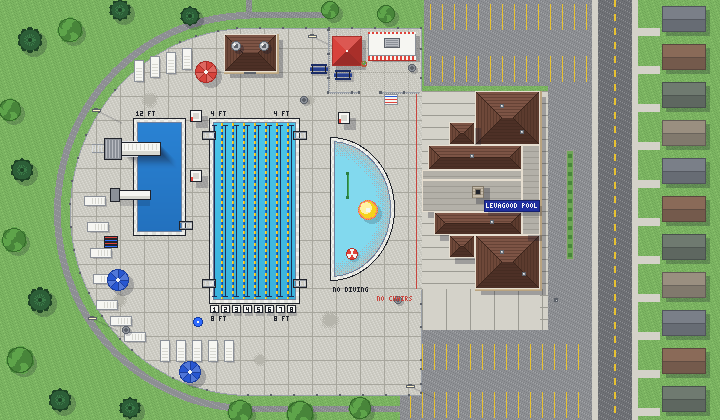
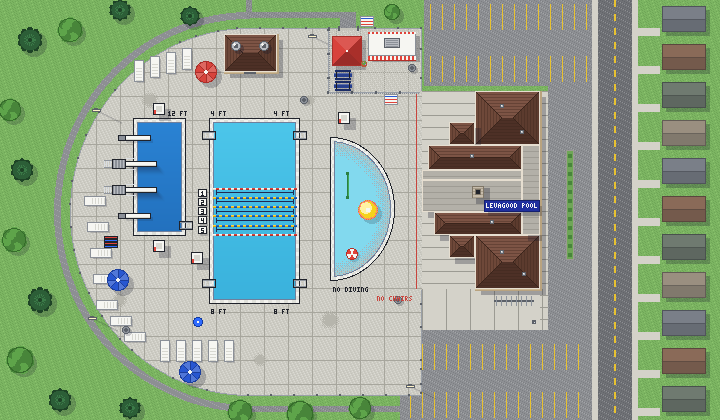
Pool page: park life, concessions from the park, meet lanes, four diving boards

diff --git a/pool.html b/pool.html
@@ -135,11 +135,11 @@
       <canvas id="levac" width="1440" height="840" aria-hidden="true"></canvas>
       <div id="dark" aria-hidden="true"></div>
       <canvas id="lights" width="1440" height="840" aria-hidden="true"></canvas>
-<div class="spot" tabindex="0" role="note" aria-label="DIVING WELL, 12 feet, the high dive and the low board" style="left:266px;top:236px;width:106px;height:236px"><span class="tip"><b>DIVING WELL</b><span>12 feet, the high dive and the low board</span></span></div>
-<div class="spot" tabindex="0" role="note" aria-label="50 METER POOL, eight lanes, the ropes out for laps" style="left:418px;top:236px;width:182px;height:372px"><span class="tip"><b>50 METER POOL</b><span>eight lanes, the ropes out for laps</span></span></div>
+<div class="spot" tabindex="0" role="note" aria-label="DIVING WELL, 12 feet, two 1 meter and two 3 meter boards" style="left:266px;top:236px;width:106px;height:236px"><span class="tip"><b>DIVING WELL</b><span>12 feet, two 1 meter and two 3 meter boards</span></span></div>
+<div class="spot" tabindex="0" role="note" aria-label="50 METER POOL, meets run 25 yards across, five lanes in the middle" style="left:418px;top:236px;width:182px;height:372px"><span class="tip"><b>50 METER POOL</b><span>meets run 25 yards across, five lanes in the middle</span></span></div>
 <div class="spot" tabindex="0" role="note" aria-label="ZERO DEPTH, the mushroom, the arch, and the duck" style="left:660px;top:274px;width:130px;height:288px"><span class="tip"><b>ZERO DEPTH</b><span>the mushroom, the arch, and the duck</span></span></div>
 <button type="button" class="spot link" data-room="pump" style="left:448px;top:68px;width:106px;height:76px" aria-label="PUMP ROOM, leva lives here, come see"><span class="tip down"><b>PUMP ROOM</b><span>leva lives here, come see</span></span></button>
-<div class="spot" tabindex="0" role="note" aria-label="CONCESSION AREA, no outside food, no loitering" style="left:656px;top:60px;width:80px;height:124px"><span class="tip down"><b>CONCESSION AREA</b><span>no outside food, no loitering</span></span></div>
+<div class="spot" tabindex="0" role="note" aria-label="CONCESSION AREA, come in from the park, no food on the deck" style="left:656px;top:60px;width:80px;height:124px"><span class="tip down"><b>CONCESSION AREA</b><span>come in from the park, no food on the deck</span></span></div>
 <button type="button" class="spot link" data-room="nutty" style="left:736px;top:64px;width:96px;height:58px" aria-label="NUTTY DIP, Sandy's Sundaes"><span class="tip down"><b>NUTTY DIP</b><span>Sandy's Sundaes</span></span></button>
 <div class="spot" tabindex="0" role="note" aria-label="GIRLS BATHROOM" style="left:950px;top:182px;width:130px;height:108px"><span class="tip down"><b>GIRLS BATHROOM</b></span></div>
 <div class="spot" tabindex="0" role="note" aria-label="GIRLS GUARD SHACK" style="left:898px;top:244px;width:52px;height:46px"><span class="tip"><b>GIRLS GUARD SHACK</b></span></div>
@@ -244,7 +244,7 @@
   function isNight(){ return park.dataset.time === 'night'; }
   function isDusk(){ return park.dataset.time === 'dusk'; }
 
-  var ATLAS = {"crew_s0":[0,0,11,13],"crew2_s0":[12,0,11,13],"crew3_s0":[24,0,11,13],"crew_s1":[36,0,11,13],"crew2_s1":[48,0,11,13],"crew3_s1":[60,0,11,13],"crew_n0":[72,0,11,13],"crew2_n0":[84,0,11,13],"crew3_n0":[96,0,11,13],"crew_n1":[108,0,11,13],"crew2_n1":[120,0,11,13],"crew3_n1":[132,0,11,13],"crew_e0":[144,0,11,13],"crew2_e0":[156,0,11,13],"crew3_e0":[168,0,11,13],"crew_e1":[180,0,11,13],"crew2_e1":[192,0,11,13],"crew3_e1":[204,0,11,13],"crew_w0":[216,0,11,13],"crew2_w0":[228,0,11,13],"crew3_w0":[240,0,11,13],"crew_w1":[0,14,11,13],"crew2_w1":[12,14,11,13],"crew3_w1":[24,14,11,13],"kid1_e0":[36,14,11,13],"kid1_e1":[48,14,11,13],"kid1_w0":[60,14,11,13],"kid1_w1":[72,14,11,13],"kid1_s0":[84,14,11,13],"kid1_s1":[96,14,11,13],"kid1_n0":[108,14,11,13],"kid1_n1":[120,14,11,13],"kid2_e0":[132,14,11,13],"kid2_e1":[144,14,11,13],"kid2_w0":[156,14,11,13],"kid2_w1":[168,14,11,13],"kid2_s0":[180,14,11,13],"kid2_s1":[192,14,11,13],"kid2_n0":[204,14,11,13],"kid2_n1":[216,14,11,13],"kid3_e0":[228,14,11,13],"kid3_e1":[240,14,11,13],"kid3_w0":[0,28,11,13],"kid3_w1":[12,28,11,13],"kid3_s0":[24,28,11,13],"kid3_s1":[36,28,11,13],"kid3_n0":[48,28,11,13],"kid3_n1":[60,28,11,13],"food":[72,28,6,7],"chair_blue":[79,28,13,9],"chair_white":[93,28,13,9],"chair_web":[107,28,13,9],"chair_red":[121,28,13,9],"f1_seat0":[135,28,11,11],"f1_e0":[147,28,11,13],"f1_seat1":[159,28,11,11],"f1_e1":[171,28,11,13],"f2_seat0":[183,28,11,11],"f2_e0":[195,28,11,13],"f2_seat1":[207,28,11,11],"f2_e1":[219,28,11,13],"f3_seat0":[231,28,11,11],"f3_e0":[243,28,11,13],"f3_seat1":[0,42,11,11],"f3_e1":[12,42,11,13],"f4_seat0":[24,42,11,11],"f4_e0":[36,42,11,13],"f4_seat1":[48,42,11,11],"f4_e1":[60,42,11,13],"f5_seat0":[72,42,11,11],"f5_e0":[84,42,11,13],"f5_seat1":[96,42,11,11],"f5_e1":[108,42,11,13],"f6_seat0":[120,42,11,11],"f6_e0":[132,42,11,13],"f6_seat1":[144,42,11,11],"f6_e1":[156,42,11,13],"band1_w0":[168,42,11,13],"band1_w1":[180,42,11,13],"band2_w0":[192,42,11,13],"band2_w1":[204,42,11,13],"band3_w0":[216,42,11,13],"band3_w1":[228,42,11,13],"guitar":[240,42,8,7],"drums":[0,56,13,11],"note0":[14,56,5,6],"note1":[20,56,7,6],"guard_sit":[28,56,6,6],"guard_s0":[35,56,11,13],"guard_s1":[47,56,11,13],"guard_n0":[59,56,11,13],"guard_n1":[71,56,11,13],"guard_e0":[83,56,11,13],"guard_e1":[95,56,11,13],"guard_w0":[107,56,11,13],"guard_w1":[119,56,11,13],"swim_e0":[131,56,10,6],"swim_w0":[142,56,10,6],"swim_e1":[153,56,10,6],"swim_w1":[164,56,10,6],"swim_s0":[175,56,6,10],"swim_n0":[182,56,6,10],"swim_s1":[189,56,6,10],"swim_n1":[196,56,6,10],"head0":[203,56,8,6],"head1":[212,56,8,6],"cart_h":[221,56,12,8],"cart_v":[234,56,8,11],"duck0":[243,56,10,7],"duck1":[0,70,10,7],"spray0":[11,70,40,40],"spray1":[52,70,40,40],"spray2":[93,70,40,40],"arch0":[134,70,30,12],"arch1":[165,70,30,12],"fan0":[196,70,20,20],"fan1":[217,70,20,20],"flags0":[238,70,6,72],"flags1":[245,70,6,72],"splash0":[0,143,20,20],"splash1":[21,143,20,20],"splash2":[42,143,20,20],"flag0":[63,143,12,8],"flag1":[76,143,12,8],"skim0":[89,143,14,30],"skim1":[104,143,14,30],"mop":[119,143,9,11],"bucket":[129,143,7,6],"wrench0":[137,143,10,5],"wrench1":[148,143,10,5]};
+  var ATLAS = {"crew_s0":[0,0,11,13],"crew2_s0":[12,0,11,13],"crew3_s0":[24,0,11,13],"crew_s1":[36,0,11,13],"crew2_s1":[48,0,11,13],"crew3_s1":[60,0,11,13],"crew_n0":[72,0,11,13],"crew2_n0":[84,0,11,13],"crew3_n0":[96,0,11,13],"crew_n1":[108,0,11,13],"crew2_n1":[120,0,11,13],"crew3_n1":[132,0,11,13],"crew_e0":[144,0,11,13],"crew2_e0":[156,0,11,13],"crew3_e0":[168,0,11,13],"crew_e1":[180,0,11,13],"crew2_e1":[192,0,11,13],"crew3_e1":[204,0,11,13],"crew_w0":[216,0,11,13],"crew2_w0":[228,0,11,13],"crew3_w0":[240,0,11,13],"crew_w1":[0,14,11,13],"crew2_w1":[12,14,11,13],"crew3_w1":[24,14,11,13],"kid1_e0":[36,14,11,13],"kid1_e1":[48,14,11,13],"kid1_w0":[60,14,11,13],"kid1_w1":[72,14,11,13],"kid1_s0":[84,14,11,13],"kid1_s1":[96,14,11,13],"kid1_n0":[108,14,11,13],"kid1_n1":[120,14,11,13],"kid2_e0":[132,14,11,13],"kid2_e1":[144,14,11,13],"kid2_w0":[156,14,11,13],"kid2_w1":[168,14,11,13],"kid2_s0":[180,14,11,13],"kid2_s1":[192,14,11,13],"kid2_n0":[204,14,11,13],"kid2_n1":[216,14,11,13],"kid3_e0":[228,14,11,13],"kid3_e1":[240,14,11,13],"kid3_w0":[0,28,11,13],"kid3_w1":[12,28,11,13],"kid3_s0":[24,28,11,13],"kid3_s1":[36,28,11,13],"kid3_n0":[48,28,11,13],"kid3_n1":[60,28,11,13],"food":[72,28,6,7],"chair_blue":[79,28,13,9],"chair_white":[93,28,13,9],"chair_web":[107,28,13,9],"chair_red":[121,28,13,9],"f1_seat0":[135,28,11,11],"f1_n0":[147,28,11,13],"f1_e0":[159,28,11,13],"f1_s0":[171,28,11,13],"f1_w0":[183,28,11,13],"f1_seat1":[195,28,11,11],"f1_n1":[207,28,11,13],"f1_e1":[219,28,11,13],"f1_s1":[231,28,11,13],"f1_w1":[243,28,11,13],"f2_seat0":[0,42,11,11],"f2_n0":[12,42,11,13],"f2_e0":[24,42,11,13],"f2_s0":[36,42,11,13],"f2_w0":[48,42,11,13],"f2_seat1":[60,42,11,11],"f2_n1":[72,42,11,13],"f2_e1":[84,42,11,13],"f2_s1":[96,42,11,13],"f2_w1":[108,42,11,13],"f3_seat0":[120,42,11,11],"f3_n0":[132,42,11,13],"f3_e0":[144,42,11,13],"f3_s0":[156,42,11,13],"f3_w0":[168,42,11,13],"f3_seat1":[180,42,11,11],"f3_n1":[192,42,11,13],"f3_e1":[204,42,11,13],"f3_s1":[216,42,11,13],"f3_w1":[228,42,11,13],"f4_seat0":[240,42,11,11],"f4_n0":[0,56,11,13],"f4_e0":[12,56,11,13],"f4_s0":[24,56,11,13],"f4_w0":[36,56,11,13],"f4_seat1":[48,56,11,11],"f4_n1":[60,56,11,13],"f4_e1":[72,56,11,13],"f4_s1":[84,56,11,13],"f4_w1":[96,56,11,13],"f5_seat0":[108,56,11,11],"f5_n0":[120,56,11,13],"f5_e0":[132,56,11,13],"f5_s0":[144,56,11,13],"f5_w0":[156,56,11,13],"f5_seat1":[168,56,11,11],"f5_n1":[180,56,11,13],"f5_e1":[192,56,11,13],"f5_s1":[204,56,11,13],"f5_w1":[216,56,11,13],"f6_seat0":[228,56,11,11],"f6_n0":[240,56,11,13],"f6_e0":[0,70,11,13],"f6_s0":[12,70,11,13],"f6_w0":[24,70,11,13],"f6_seat1":[36,70,11,11],"f6_n1":[48,70,11,13],"f6_e1":[60,70,11,13],"f6_s1":[72,70,11,13],"f6_w1":[84,70,11,13],"band1_w0":[96,70,11,13],"band1_w1":[108,70,11,13],"band2_w0":[120,70,11,13],"band2_w1":[132,70,11,13],"band3_w0":[144,70,11,13],"band3_w1":[156,70,11,13],"guitar":[168,70,8,7],"drums":[177,70,13,11],"note0":[191,70,5,6],"note1":[197,70,7,6],"guard_sit":[205,70,6,6],"guard_s0":[212,70,11,13],"guard_s1":[224,70,11,13],"guard_n0":[236,70,11,13],"guard_n1":[0,84,11,13],"guard_e0":[12,84,11,13],"guard_e1":[24,84,11,13],"guard_w0":[36,84,11,13],"guard_w1":[48,84,11,13],"swim_e0":[60,84,10,6],"swim_w0":[71,84,10,6],"swim_e1":[82,84,10,6],"swim_w1":[93,84,10,6],"swim_s0":[104,84,6,10],"swim_n0":[111,84,6,10],"swim_s1":[118,84,6,10],"swim_n1":[125,84,6,10],"head0":[132,84,8,6],"head1":[141,84,8,6],"cart_h":[150,84,12,8],"cart_v":[163,84,8,11],"duck0":[172,84,10,7],"duck1":[183,84,10,7],"spray0":[194,84,40,40],"spray1":[0,125,40,40],"spray2":[41,125,40,40],"arch0":[82,125,30,12],"arch1":[113,125,30,12],"fan0":[144,125,20,20],"fan1":[165,125,20,20],"flags0":[186,125,6,72],"flags1":[193,125,6,72],"splash0":[200,125,20,20],"splash1":[221,125,20,20],"splash2":[0,198,20,20],"flag0":[21,198,12,8],"flag1":[34,198,12,8],"skim0":[47,198,14,30],"skim1":[62,198,14,30],"mop":[77,198,9,11],"bucket":[87,198,7,6],"wrench0":[95,198,10,5],"wrench1":[106,198,10,5]};
   var base = document.getElementById('base').getContext('2d'), ctx = document.getElementById('anim').getContext('2d');
   var lc = document.getElementById('levac').getContext('2d'), lx = document.getElementById('lights').getContext('2d');
   base.imageSmoothingEnabled = false; ctx.imageSmoothingEnabled = false;
@@ -253,7 +253,7 @@
     var im = new Image();
     im.onload = function(){ imgs[n] = im; if (--todo === 0) start(); };
     im.onerror = function(){ console.error('leva pool: could not load pool/' + n + '.png'); };
-    im.src = 'pool/' + n + '.png?v=8';
+    im.src = 'pool/' + n + '.png?v=9';
   });
   var reduce = window.matchMedia && window.matchMedia('(prefers-reduced-motion: reduce)').matches;
 
@@ -282,16 +282,18 @@
     return w;
   }
   var crew = [
-    walker('crew',  [[140,254],[190,254],[190,296],[140,296]], 12, 'mop'),
+    walker('crew',  [[140,264],[186,264],[186,296],[140,296]], 12, 'mop'),
     walker('crew3', [[284,88],[322,88]], 10, 'bucket'),
-    walker('guard', [[196,212],[196,292]], 8, null),
+    walker('guard', [[214,320],[300,320]], 8, null),
     walker('guard', [[322,302],[404,302]], 8, null)
   ];
   var cart = walker('cart', [[140,98],[196,98]], 18, null);
   cart.draw = function(){ var v = cart.face === 'n' || cart.face === 's'; draw(v ? 'cart_v' : 'cart_h', cart.x - (v ? 4 : 6), cart.y - (v ? 6 : 4), cart.face === 'w'); };
-  var swimmers = [{x: 242, y: 130, dir: 1, t: 0, speed: 24}, {x: 275, y: 280, dir: -1, t: 0.7, speed: 20}];
-  var heads = [{x: 340, y: 168, t: 0, s: 'head0'}, {x: 372, y: 236, t: 1.1, s: 'head1'}, {x: 350, y: 222, t: 0.4, s: 'head0'}];
-  var chairs = [[190, 170], [190, 110], [338, 112]];
+  // meet lanes run east and west across the middle; the ends are open swim
+  var swimmers = [{x: 216, y: 198, dir: 1, t: 0, speed: 16}, {x: 288, y: 216, dir: -1, t: 0.7, speed: 14}];
+  var heads = [{x: 340, y: 168, t: 0, s: 'head0'}, {x: 372, y: 236, t: 1.1, s: 'head1'}, {x: 350, y: 222, t: 0.4, s: 'head0'},
+    {x: 232, y: 146, t: 0.2, s: 'head1'}, {x: 268, y: 160, t: 0.9, s: 'head0'}, {x: 246, y: 262, t: 1.5, s: 'head0'}, {x: 280, y: 276, t: 0.6, s: 'head1'}];
+  var chairs = [[153, 103], [153, 240], [191, 252], [338, 112]];
   var duck = {y: 170, dir: 1, t: 0};
   var diver = {t: 0};
 
@@ -464,6 +466,11 @@
       var sw = Math.sin(T * 2.2);
       glow(780, 692, 70, 'rgba(255,46,136,A)', 0.45 + 0.2 * sw); glow(800, 660, 60, 'rgba(0,240,255,A)', 0.4 - 0.2 * sw);
     }
+    if (night || dusk){
+      // headlights on the moving cars
+      through.concat(moving).forEach(function(c){ if (!c.pos) return; var L = Math.hypot(c.pos.dx, c.pos.dy) || 1;
+        glow(c.pos.x * 2 + c.pos.dx / L * 26, c.pos.y * 2 + c.pos.dy / L * 26, 30, 'rgba(255,246,200,A)', 0.8); });
+    }
     if (arcadeOn()){
       var pulse = 0.35 + 0.25 * Math.sin(T * 9);
       glow(956, 448, 60, 'rgba(255,46,136,A)', pulse); glow(956, 456, 40, 'rgba(0,240,255,A)', pulse * 0.8);
@@ -478,6 +485,174 @@
     }
   }
 
+  // ================= arrivals and park life =================
+  // everything here is on the street, the lots, the sidewalks, the path and the lawn; nothing crosses the pool deck
+  function along(path, dist){
+    // position and heading at a distance along a polyline
+    for (var i = 0; i < path.length - 1; i++){
+      var a = path[i], b = path[i + 1], L = Math.hypot(b[0] - a[0], b[1] - a[1]);
+      if (dist <= L || i === path.length - 2){
+        var t = L ? Math.min(1, dist / L) : 1;
+        return {x: a[0] + (b[0] - a[0]) * t, y: a[1] + (b[1] - a[1]) * t, dx: b[0] - a[0], dy: b[1] - a[1], done: dist > L && i === path.length - 2};
+      }
+      dist -= L;
+    }
+  }
+  function pathLen(path){ var L = 0; for (var i = 0; i < path.length - 1; i++) L += Math.hypot(path[i + 1][0] - path[i][0], path[i + 1][1] - path[i][1]); return L; }
+  var CAR_COLORS = ['#d7262b', '#2857d1', '#f2f2ee', '#1c1d22', '#9aa0a8', '#3f8f5a', '#e8c230', '#6b3fa0'];
+  function drawCar(x, y, dx, dy, col, lightsOn){
+    var vert = Math.abs(dy) >= Math.abs(dx), fwd = vert ? (dy >= 0 ? 1 : -1) : (dx >= 0 ? 1 : -1);
+    x = Math.round(x); y = Math.round(y);
+    var w = vert ? 8 : 14, h = vert ? 14 : 8, x0 = x - w / 2, y0 = y - h / 2;
+    ctx.fillStyle = 'rgba(20,22,40,.35)'; ctx.fillRect(x0 + 1, y0 + 1, w, h);
+    ctx.fillStyle = col; ctx.fillRect(x0, y0, w, h);
+    ctx.fillStyle = 'rgba(255,255,255,.18)'; vert ? ctx.fillRect(x0 + 1, y0 + 1, 1, h - 2) : ctx.fillRect(x0 + 1, y0 + 1, w - 2, 1);
+    ctx.fillStyle = '#1d2433';
+    if (vert){
+      var fy = fwd > 0 ? y0 + h - 5 : y0 + 2, ry = fwd > 0 ? y0 + 2 : y0 + h - 4;
+      ctx.fillRect(x0 + 1, fy, w - 2, 3); ctx.fillRect(x0 + 1, ry, w - 2, 2);
+      ctx.fillStyle = lightsOn ? '#fff6c8' : '#e8e8e2'; ctx.fillRect(x0 + 1, fwd > 0 ? y0 + h - 1 : y0, 2, 1); ctx.fillRect(x0 + w - 3, fwd > 0 ? y0 + h - 1 : y0, 2, 1);
+      ctx.fillStyle = '#b3262b'; ctx.fillRect(x0 + 1, fwd > 0 ? y0 : y0 + h - 1, 2, 1); ctx.fillRect(x0 + w - 3, fwd > 0 ? y0 : y0 + h - 1, 2, 1);
+    } else {
+      var fx = fwd > 0 ? x0 + w - 5 : x0 + 2, rx = fwd > 0 ? x0 + 2 : x0 + w - 4;
+      ctx.fillRect(fx, y0 + 1, 3, h - 2); ctx.fillRect(rx, y0 + 1, 2, h - 2);
+      ctx.fillStyle = lightsOn ? '#fff6c8' : '#e8e8e2'; ctx.fillRect(fwd > 0 ? x0 + w - 1 : x0, y0 + 1, 1, 2); ctx.fillRect(fwd > 0 ? x0 + w - 1 : x0, y0 + h - 3, 1, 2);
+      ctx.fillStyle = '#b3262b'; ctx.fillRect(fwd > 0 ? x0 : x0 + w - 1, y0 + 1, 1, 2); ctx.fillRect(fwd > 0 ? x0 : x0 + w - 1, y0 + h - 3, 1, 2);
+    }
+    return {x: x, y: y, fwd: fwd, vert: vert};
+  }
+  // the south lot: two rows of stalls with an aisle between
+  var STALLS = [];
+  for (var k = 0; k < 14; k++){ STALLS.push({x: 416 + k * 12, y: 357, row: 1, car: null}); STALLS.push({x: 416 + k * 12, y: 405, row: 2, car: null}); }
+  function seedLot(n){
+    STALLS.forEach(function(s){ s.car = null; });
+    for (var i = 0; i < n; i++){ var s = STALLS[(i * 11 + 3) % STALLS.length]; if (!s.car) s.car = {col: CAR_COLORS[i % CAR_COLORS.length]}; }
+  }
+  var lotMode = null;
+  var moving = [], walkers2 = [], through = [];
+  function arrivePath(s){
+    return [[606, -20], [606, 94], [586, 98], [560, 110], [558, 330], [556, 381], [s.x, 381], [s.x, s.y]];
+  }
+  function leavePath(s){
+    return [[s.x, s.y], [s.x, 381], [588, 381], [588, 330], [590, 110], [612, 96], [624, 80], [624, -24]];
+  }
+  var arriveClock = 4, leaveClock = 14, throughClock = 1;
+  function trafficStep(dt, open, lightsOn){
+    // how full the lot is follows the clock
+    var mode = open ? 'open' : (isNight() ? 'night' : 'closed');
+    if (mode !== lotMode){ lotMode = mode; seedLot(mode === 'open' ? 16 : mode === 'night' ? 2 : 5); moving = []; walkers2 = []; }
+    // cars passing on the street, both directions
+    throughClock -= dt;
+    if (throughClock <= 0){
+      throughClock = 6 + Math.random() * 8;
+      var south = Math.random() < 0.5;
+      through.push({path: south ? [[606, -20], [606, 440]] : [[624, 440], [624, -20]], d: 0, v: 34 + Math.random() * 10, col: CAR_COLORS[Math.floor(Math.random() * CAR_COLORS.length)]});
+    }
+    // a family arrives while the pool is open
+    if (open){
+      arriveClock -= dt; leaveClock -= dt;
+      if (arriveClock <= 0){
+        arriveClock = 14 + Math.random() * 10;
+        var free = STALLS.filter(function(s){ return !s.car && !s.claimed; });
+        if (free.length){ var s = free[Math.floor(Math.random() * free.length)]; s.claimed = true;
+          moving.push({kind: 'arrive', stall: s, path: arrivePath(s), d: 0, v: 26, col: CAR_COLORS[Math.floor(Math.random() * CAR_COLORS.length)]}); }
+      }
+      if (leaveClock <= 0){
+        leaveClock = 20 + Math.random() * 14;
+        var full = STALLS.filter(function(s){ return s.car && !s.claimed; });
+        if (full.length > 6){ var s2 = full[Math.floor(Math.random() * full.length)]; var c = s2.car; s2.car = null;
+          moving.push({kind: 'leave', stall: s2, path: leavePath(s2), d: 0, v: 24, col: c.col}); }
+      }
+    }
+    // parked cars
+    STALLS.forEach(function(s){ if (s.car) drawCar(s.x, s.y, 0, s.row === 1 ? -1 : 1, s.car.col, false); });
+    // moving cars
+    through = through.filter(function(c){ c.d += c.v * dt; var p = along(c.path, c.d); if (p.done) return false; drawCar(p.x, p.y, p.dx, p.dy, c.col, lightsOn); c.pos = p; return true; });
+    moving = moving.filter(function(c){
+      c.d += c.v * dt; var p = along(c.path, c.d);
+      if (p.done){
+        if (c.kind === 'arrive'){
+          c.stall.car = {col: c.col}; c.stall.claimed = false;
+          // the family climbs out and walks in the front door
+          var start = [c.stall.x, c.stall.row === 1 ? 346 : 394];
+          ['f1', 'kid1', 'kid3', 'f4'].slice(0, 2 + Math.floor(Math.random() * 3)).forEach(function(who, i){
+            walkers2.push({who: who, path: [start, [start[0], 381], [548, 381], [548, 318], [544, 300], [544, 196]], d: -i * 5, v: 11 + (i % 2) * 2});
+          });
+        }
+        return false;
+      }
+      drawCar(p.x, p.y, p.dx, p.dy, c.col, lightsOn); c.pos = p; return true;
+    });
+  }
+  // kids biking in on the park path and locking up at the rack
+  var ring = [];
+  for (var a = 0; a <= 180; a += 10){ var r = a * Math.PI / 180; ring.push([250 - 192.6 * Math.sin(r), 212 - 196.6 * Math.cos(r)]); }
+  var BIKE_PATH = [[249, -12]].concat(ring).concat([[400, 409], [432, 400], [432, 318], [470, 310]]);
+  var RACK = [498, 503, 508, 513, 518, 523, 528];
+  var bikes = [], racked = [], bikeClock = 3;
+  function bikeStep(dt, open){
+    if (!open){ racked = []; bikes = []; return; }
+    if (!racked.length && !bikes.length) racked = [0, 2, 3, 5].map(function(i){ return {slot: i, col: CAR_COLORS[i]}; });
+    bikeClock -= dt;
+    if (bikeClock <= 0){ bikeClock = 11 + Math.random() * 9;
+      var who = ['kid1', 'kid2', 'kid3'][Math.floor(Math.random() * 3)];
+      bikes.push({who: who, d: 0, v: 22 + Math.random() * 5, col: CAR_COLORS[Math.floor(Math.random() * CAR_COLORS.length)], slot: Math.floor(Math.random() * RACK.length)});
+    }
+    // bikes at the rack
+    racked.forEach(function(b){ var x = RACK[b.slot]; ctx.fillStyle = '#1c1d22'; ctx.fillRect(x - 1, 297, 1, 2); ctx.fillRect(x - 1, 303, 1, 2); ctx.fillStyle = b.col; ctx.fillRect(x - 1, 299, 1, 4); });
+    bikes = bikes.filter(function(b){
+      b.d += b.v * dt; var p = along(BIKE_PATH, b.d);
+      if (p.done){
+        racked = racked.filter(function(r){ return r.slot !== b.slot; }); racked.push({slot: b.slot, col: b.col});
+        walkers2.push({who: b.who, path: [[RACK[b.slot], 310], [544, 310], [544, 300], [544, 196]], d: 0, v: 12});
+        return false;
+      }
+      var vert = Math.abs(p.dy) >= Math.abs(p.dx), face = vert ? (p.dy > 0 ? 's' : 'n') : (p.dx > 0 ? 'e' : 'w');
+      var x = Math.round(p.x), y = Math.round(p.y);
+      ctx.fillStyle = 'rgba(20,22,40,.3)'; vert ? ctx.fillRect(x, y - 5, 3, 12) : ctx.fillRect(x - 5, y + 1, 12, 3);
+      ctx.fillStyle = '#1c1d22';
+      if (vert){ ctx.fillRect(x - 1, y - 6, 3, 3); ctx.fillRect(x - 1, y + 3, 3, 3); ctx.fillStyle = b.col; ctx.fillRect(x, y - 3, 1, 6); ctx.fillRect(x - 2, p.dy > 0 ? y + 2 : y - 3, 5, 1); }
+      else { ctx.fillRect(x - 6, y - 1, 3, 3); ctx.fillRect(x + 3, y - 1, 3, 3); ctx.fillStyle = b.col; ctx.fillRect(x - 3, y, 6, 1); ctx.fillRect(p.dx > 0 ? x + 2 : x - 3, y - 2, 1, 5); }
+      draw(b.who + '_' + face + (Math.floor(b.d / 3) % 2), x - 4, y - 10);
+      return true;
+    });
+    // people walking from the lot and the rack to the front door
+    walkers2 = walkers2.filter(function(w){
+      w.d += w.v * dt; if (w.d < 0) return true;
+      var p = along(w.path, w.d); if (p.done) return false;
+      var vert = Math.abs(p.dy) >= Math.abs(p.dx), face = vert ? (p.dy > 0 ? 's' : 'n') : (p.dx > 0 ? 'e' : 'w');
+      var name = w.who + '_' + face + (Math.floor(w.d / 2) % 2);
+      if (!ATLAS[name]) name = w.who + '_e' + (Math.floor(w.d / 2) % 2);
+      draw(name, p.x - 4, p.y - 11);
+      return true;
+    });
+  }
+  // picnics on the lawn, and a frisbee game
+  var PICNICS = [
+    {x: 24, y: 262, fam: ['f2', 'f5', 'f4'], kid: 'kid2'},
+    {x: 20, y: 130, fam: ['f1', 'f6'], kid: 'kid1'},
+    {x: 140, y: 24, fam: ['f3', 'f4', 'f5'], kid: 'kid3'}
+  ];
+  function drawPicnics(T){
+    PICNICS.forEach(function(pc, i){
+      var x = pc.x, y = pc.y;
+      ctx.fillStyle = 'rgba(20,24,40,.2)'; ctx.fillRect(x + 1, y + 1, 18, 12);
+      for (var yy = 0; yy < 12; yy += 2) for (var xx = 0; xx < 18; xx += 2){ ctx.fillStyle = ((xx + yy) / 2) % 2 ? '#f6f6f2' : '#d7262b'; ctx.fillRect(x + xx, y + yy, 2, 2); }
+      ctx.fillStyle = '#8a5a33'; ctx.fillRect(x + 7, y + 4, 5, 4); ctx.fillStyle = '#6d4526'; ctx.fillRect(x + 7, y + 3, 5, 1);
+      ctx.fillStyle = '#ffffff'; ctx.fillRect(x + 3, y + 8, 2, 2); ctx.fillRect(x + 14, y + 3, 2, 2);
+      var seats = [[x - 4, y + 1], [x + 16, y + 6], [x + 5, y + 12]];
+      pc.fam.forEach(function(f, j){ var bob = Math.floor(T * 1.2 + i + j) % 2; draw(f + '_seat' + bob, seats[j][0], seats[j][1] - 4); });
+      // a kid running laps around the blanket
+      var a = T * 1.6 + i * 2, kx = x + 9 + Math.cos(a) * 16, ky = y + 6 + Math.sin(a) * 12, face = Math.abs(Math.sin(a)) > 0.7 ? (Math.cos(a) > 0 ? 'n' : 's') : (Math.sin(a) > 0 ? 'w' : 'e');
+      draw(pc.kid + '_' + face + (Math.floor(T * 5) % 2), kx - 4, ky - 10);
+    });
+    // two people throwing a frisbee on the west lawn
+    var ph = (T * 0.5) % 2, t = ph < 1 ? ph : 2 - ph, ax = 44, ay = 196, bx = 38, by = 228;
+    draw('f6_s' + (Math.floor(T * 2) % 2), ax - 4, ay - 11); draw('f1_n' + (Math.floor(T * 2 + 1) % 2), bx - 4, by - 11);
+    var fx = ax + (bx - ax) * t + Math.sin(t * Math.PI) * 8, fy = ay - 4 + (by - ay) * t;
+    ctx.fillStyle = '#ff2e88'; ctx.fillRect(Math.round(fx), Math.round(fy), 2, 2);
+  }
+
   var T = 0, last = null, running = true, visible = true;
   function frame(now){
     if (!loaded) return;
@@ -487,12 +662,16 @@
     ctx.clearRect(0, 0, 720, 420);
     var cf = Math.floor(T * 4) % 4;
     ctx.drawImage(imgs.caustics, 0, cf * 420, 720, 420, 0, 0, 720, 420);
+    var lightsOn = isNight() || isDusk();
+    if (!isNight()) drawPicnics(T);
+    trafficStep(dt, open, lightsOn);
+    bikeStep(dt, open);
     var fl = Math.floor(T * 2.2) % 2;
-    [130, 292].forEach(function(fy){
-      ctx.fillStyle = '#5c6169'; ctx.fillRect(206, fy, 98, 1);
-      for (var fx = 210; fx < 300; fx += 5){ ctx.fillStyle = ((fx - 210) / 5) % 2 ? '#ffd23a' : '#1f6fd0'; ctx.fillRect(fx + fl, fy + 1, 3, 2); ctx.fillRect(fx + fl, fy + 3, 1, 1); }
+    [227, 282].forEach(function(fx){
+      ctx.fillStyle = '#5c6169'; ctx.fillRect(fx, 184, 1, 56);
+      for (var fy = 188; fy < 236; fy += 5){ ctx.fillStyle = ((fy - 188) / 5) % 2 ? '#ffd23a' : '#1f6fd0'; ctx.fillRect(fx + 1, fy + fl, 2, 3); ctx.fillRect(fx + 3, fy + fl + 1, 1, 1); }
     });
-    draw('flag' + (Math.floor(T * 3) % 2), 558, 290);
+    draw('flag' + (Math.floor(T * 3) % 2), 536, 312);
     // the pennant string from the pump house to the concession fence, fluttering in the breeze
     var PC = ['#e0433a', '#f6f6f2', '#2857d1'];
     for (var k = 0; k < 52; k++){
@@ -511,33 +690,42 @@
       chairs.forEach(function(c){ draw('guard_sit', c[0] + 4, c[1] + 3); });
       heads.forEach(function(h){ h.t += dt; h.x += Math.sin(h.t * 0.5) * 2 * dt; draw(h.s, h.x, h.y + (Math.floor(h.t * 2) % 2)); });
       swimmers.forEach(function(s){
-        s.t += dt; s.y += s.dir * s.speed * dt;
-        if (s.y > 284) s.dir = -1; if (s.y < 128) s.dir = 1;
-        draw('swim_' + (s.dir > 0 ? 's' : 'n') + (Math.floor(s.t * 3) % 2), s.x, s.y);
-        ctx.fillStyle = 'rgba(255,255,255,.8)'; ctx.fillRect(s.x + 2, Math.round(s.y + (s.dir > 0 ? -3 : 11)), 1, 2);
+        s.t += dt; s.x += s.dir * s.speed * dt;
+        if (s.x > 286) s.dir = -1; if (s.x < 216) s.dir = 1;
+        draw('swim_' + (s.dir > 0 ? 'e' : 'w') + (Math.floor(s.t * 3) % 2), s.x, s.y);
+        ctx.fillStyle = 'rgba(255,255,255,.8)'; ctx.fillRect(Math.round(s.x + (s.dir > 0 ? -3 : 9)), s.y + 2, 2, 1);
       });
-      diver.t = (diver.t + dt) % 14;
-      var d = diver.t;
-      if (d < 2.5) draw('guard_e' + (Math.floor(d * 4) % 2), 88 + (d / 2.5) * 22, 137);
-      else if (d < 5.5) draw('guard_e' + (Math.floor(d * 4) % 2), 110 + ((d - 2.5) / 3) * 42, 137);
-      else if (d < 6.7) draw('guard_e0', 152, 137);
-      else if (d < 7.5) draw('splash' + Math.min(2, Math.floor((d - 6.7) * 4)), 156, 140);
-      else if (d < 11) draw('swim_s' + (Math.floor(d * 3) % 2), 166, 156 + (d - 7.5) * 16);
-      else if (d < 12.5) draw('guard_w0', 176, 212);
+      // the diver takes a turn on each board: up, out to the end, in, over to the ladder, out
+      var BOARDS = [[138, 150, 118], [164, 156, 112], [190, 156, 112], [216, 150, 118]];
+      diver.t += dt; if (diver.t > 13){ diver.t = 0; diver.b = ((diver.b || 0) + 1) % 4; }
+      var bd = BOARDS[diver.b || 0], by = bd[0], tip = bd[1], base = bd[2], d = diver.t;
+      if (d < 2) draw('guard_e' + (Math.floor(d * 4) % 2), 96 + (d / 2) * (base - 96) - 5, by - 11);
+      else if (d < 4.5) draw('guard_e' + (Math.floor(d * 4) % 2), base + ((d - 2) / 2.5) * (tip - 4 - base) - 5, by - 11);
+      else if (d < 5.6) draw('guard_e0', tip - 9, by - 11);
+      else if (d < 6.4) draw('splash' + Math.min(2, Math.floor((d - 5.6) * 4)), tip - 2, by - 8);
+      else if (d < 10) draw('swim_s' + (Math.floor(d * 3) % 2), tip + 6, Math.min(222, by + (d - 6.4) * 14));
+      else if (d < 11.5) draw('guard_w0', 176, 212);
       var bob = Math.floor(T * 1.5) % 2;
       draw('kid1_n' + bob, 374, 64); draw('kid3_n' + (1 - bob), 375, 74); draw('kid2_n0', 374, 84);
-      var tk = (T % 10) / 10, fx, fy;
-      if (tk < 0.3){ fx = 392 - (tk / 0.3) * 24; fy = 66 + (tk / 0.3) * 34; }
-      else { fx = 368 - ((tk - 0.3) / 0.7) * 80; fy = 100; }
-      draw(tk < 0.3 ? 'kid2_s0' : 'kid2_w' + (Math.floor(T * 4) % 2), fx, fy); draw('food', fx - 2, fy + 4);
+      // customers come in from the park and leave the same way, ice cream in hand
+      var OUT_PATH = [[392, 66], [348, 66], [348, 34], [348, 20], [300, 15], [262, 15]];
+      var IN_PATH = [[262, 15], [300, 15], [348, 20], [348, 40], [366, 52]];
+      [[OUT_PATH, 0, 'kid2', true], [IN_PATH, 5, 'kid1', false]].forEach(function(w){
+        var tk = ((T + w[1]) % 10) / 10, P2 = w[0], p = along(P2, tk * pathLen(P2));
+        if (!p || p.done) return;
+        var vert = Math.abs(p.dy) >= Math.abs(p.dx), face = vert ? (p.dy > 0 ? 's' : 'n') : (p.dx > 0 ? 'e' : 'w');
+        draw(w[2] + '_' + face + (Math.floor(T * 4) % 2), p.x - 4, p.y - 11);
+        if (w[3]) draw('food', p.x - 2, p.y - 7);
+      });
       draw('crew2_e' + (Math.floor(T * 2) % 2), 470, 196); draw('mop', 480, 198);
       if (bandOn()) drawBand(T);
       var all = crew.concat([cart]); all.forEach(function(w){ w.step(dt); });
       all.sort(function(a, b){ return a.y - b.y; }).forEach(function(w){ w.draw(); });
     } else {
-      ctx.fillStyle = '#9aa0a8'; ctx.fillRect(360, 92, 20, 1);
-      for (var gx = 360; gx < 380; gx += 2) ctx.fillRect(gx, 93, 1, 1);
-      ctx.fillStyle = '#d3ad0a'; ctx.fillRect(369, 91, 3, 3);
+      // the park gate to the concession square, chained after close
+      ctx.fillStyle = '#9aa0a8'; ctx.fillRect(340, 28, 17, 1);
+      for (var gx = 340; gx < 357; gx += 2) ctx.fillRect(gx, 29, 1, 1);
+      ctx.fillStyle = '#d3ad0a'; ctx.fillRect(347, 27, 3, 3);
     }
     cloudDt = dt; leva.step(dt); leva.draw();
     if (chipBand) chipBand.hidden = !(open && bandOn());
@@ -629,7 +817,7 @@
     nutty: {
       title: 'NUTTY DIP', files: ['nutty', 'nutty_closed'],
       label: "Nutty Dip, Sandy's Sundaes: a white trailer with a red and white striped awning, signs for cold drinks, sundaes and floats, a menu in the window, and blue picnic tables beside it.",
-      note: "Sandy's Sundaes. Nachos, pretzels, hot dogs, sundaes and floats.", action: null,
+      note: "Sandy's Sundaes. Walk up from the park. No food on the pool deck.", action: null,
       draw: function(){
         ctx.drawImage(imgs.nutty, 0, 0);
         sky(30);
